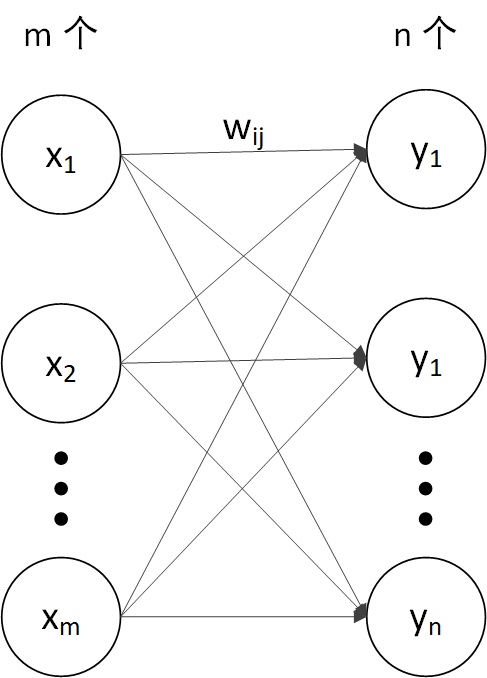
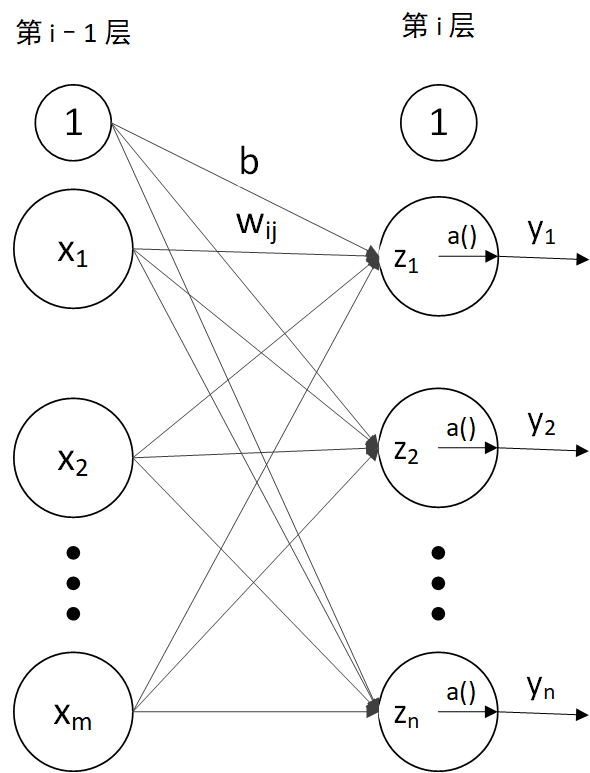
神经网络

diff --git a/机器学习/深度学习入门/神经网络正向传播.md b/机器学习/深度学习入门/神经网络正向传播.md
@@ -1,0 +1,125 @@
+# 神经网络正向传播
+
+### 单层神经网络
+
+#### 结构图
+
+![](../../image/神经网络1.png)
+
+#### 公式
+
+$$
+\begin{bmatrix}z_1 \\z_2 \\\vdots \\z_n \\ \end{bmatrix}
+=
+
+\begin{bmatrix}w^{(i)}_{11} & w^{(i)}_{12} & \cdots & w^{(i)}_{1m} \\w^{(i)}_{21} & w^{(i)}_{22} & \cdots & w^{(i)}_{2m} \\\vdots & \vdots &  & \vdots \\w^{(i)}_{n1} & w^{(i)}_{n2} & \cdots & w^{(i)}_{nm} \\ 
+\end{bmatrix}
+
+\begin{bmatrix}x_1 \\x_2 \\\vdots \\x_n \\ \end{bmatrix}
+
++
+
+\begin{bmatrix}b^{(i)}_1 \\b^{(i)}_2 \\\vdots \\b^{(i)}_n \\ \end{bmatrix}
+$$
+
+$$
+z^{(i)} = W^{(i)}\cdot x + b^{(i)}
+$$
+
+$$
+\begin{bmatrix}y_1 \\y_2 \\\vdots \\y_n \\ \end{bmatrix} = a\begin{pmatrix}\begin{bmatrix}z_1 \\z_2 \\\vdots \\z_n \\ \end{bmatrix}\end{pmatrix}
+$$
+
+$$
+y^{(i)} = a(z^{(i)})
+$$
+
+#### 术语
+
+**偏置 $b$**
+
+控制神经元被激活的容易程度
+
+**权重 $w^l_{ij}$**
+
+* $l$ 指第 $l$ 层
+* $i$ 指第 $l$ 层的第 $i$ 个神经元
+* $j$ 指第 $l - 1$ 层的第 $j$ 个神经元
+
+**$z^{(i)}$**
+
+ 第 $i$ 层的中间结果
+
+**$y^{(i)}$**
+
+第 $i$ 层的输出
+
+### 三层神经网络
+
+#### 结构图
+
+![](../../image/神经网络2.png)
+
+#### 术语
+
+**one-hot**
+
+正解为 1, 其余为 0
+
+**normalize**
+
+正规化, 标准化, 归一化
+
+将数据弄到 $0\sim1$ 之间
+
+**批处理**
+
+一次处理一批数据, 矩阵计算
+
+* batch 批
+* batch 批数据大小
+
+#### 激活函数
+
+**sigmoid**
+$$
+f(x) = \frac{1}{1+e^{-x}}
+$$
+**阶跃函数**
+$$
+f(x) = 
+\begin{cases}
+1 & x > 0 \\
+0 & x \leq 0
+\end{cases}
+$$
+
+
+**relu**
+$$
+f(x) = 
+\begin{cases}
+x & x > 0 \\
+0 & x \leq 0
+\end{cases}
+$$
+
+#### 输出层的激活函数
+
+**恒等函数(回归)**
+$$
+f(x) = x
+$$
+**softmax(分类)**
+$$
+f(x) =
+\frac{e^{x_i}}{e^{x_1} + \cdots + e^{x_n}}
+$$
+处理数据溢出, 防止 $e^{x_i}$ 很大
+$$
+\begin{gather}
+f(x) =
+\frac{e^{x_i - c}}{e^{x_1 - c} + \cdots + e^{x_n - c}}
+& & c = max\{x_1 ,\cdots, x_n\}
+\end{gather}
+$$

diff --git a/机器学习/深度学习入门/感知机.md b/机器学习/深度学习入门/感知机.md
@@ -54,5 +54,5 @@ $$
 y = wx
 $$
 
-![](../../image/神经网络1.png)
+![](../../image/感知机2.png)
 
